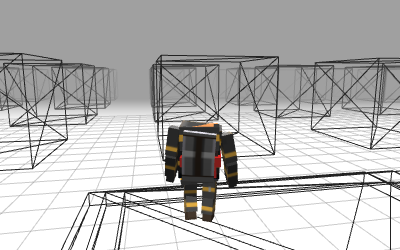
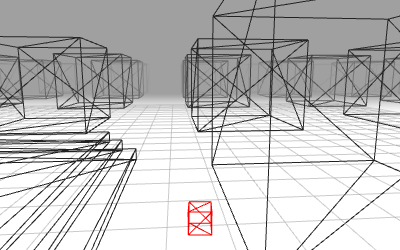
workflow

diff --git a/samples/bim_collision_detection_9.html b/samples/bim_collision_detection_9.html
@@ -163,9 +163,17 @@
 
 					} );
 
+					const geometry = new THREE.BoxGeometry( 50, 50, 50 );
+			        const material = new THREE.MeshBasicMaterial( { color: new THREE.Color('red'), wireframe: false } );
+			        const mesh = new THREE.Mesh( geometry, material );
+
+					mesh.position.y = 25;
+					mesh.castShadow = true;
+
 		            game.player.object = new THREE.Object3D();
 					game.scene.add( game.player.object );
-					game.player.object.add( object );
+					// game.player.object.add( object );
+					game.player.object.add( mesh );
 					game.animations.Idle = object.animations[ 0 ];
 
 		            game.loadNextAnim( loader );

diff --git a/samples/bim_collision_detection_8.html b/samples/bim_collision_detection_8.html
@@ -161,9 +161,17 @@
 
 					} );
 
+					const geometry = new THREE.BoxGeometry( 50, 50, 50 );
+			        const material = new THREE.MeshBasicMaterial( { color: new THREE.Color('red'), wireframe: true } );
+			        const mesh = new THREE.Mesh( geometry, material );
+
+					mesh.position.y = 25;
+					mesh.castShadow = true;
+
 		            game.player.object = new THREE.Object3D();
 					game.scene.add( game.player.object );
-					game.player.object.add( object );
+					// game.player.object.add( object );
+					game.player.object.add( mesh );
 					game.animations.Idle = object.animations[ 0 ];
 
 		            game.loadNextAnim( loader );
